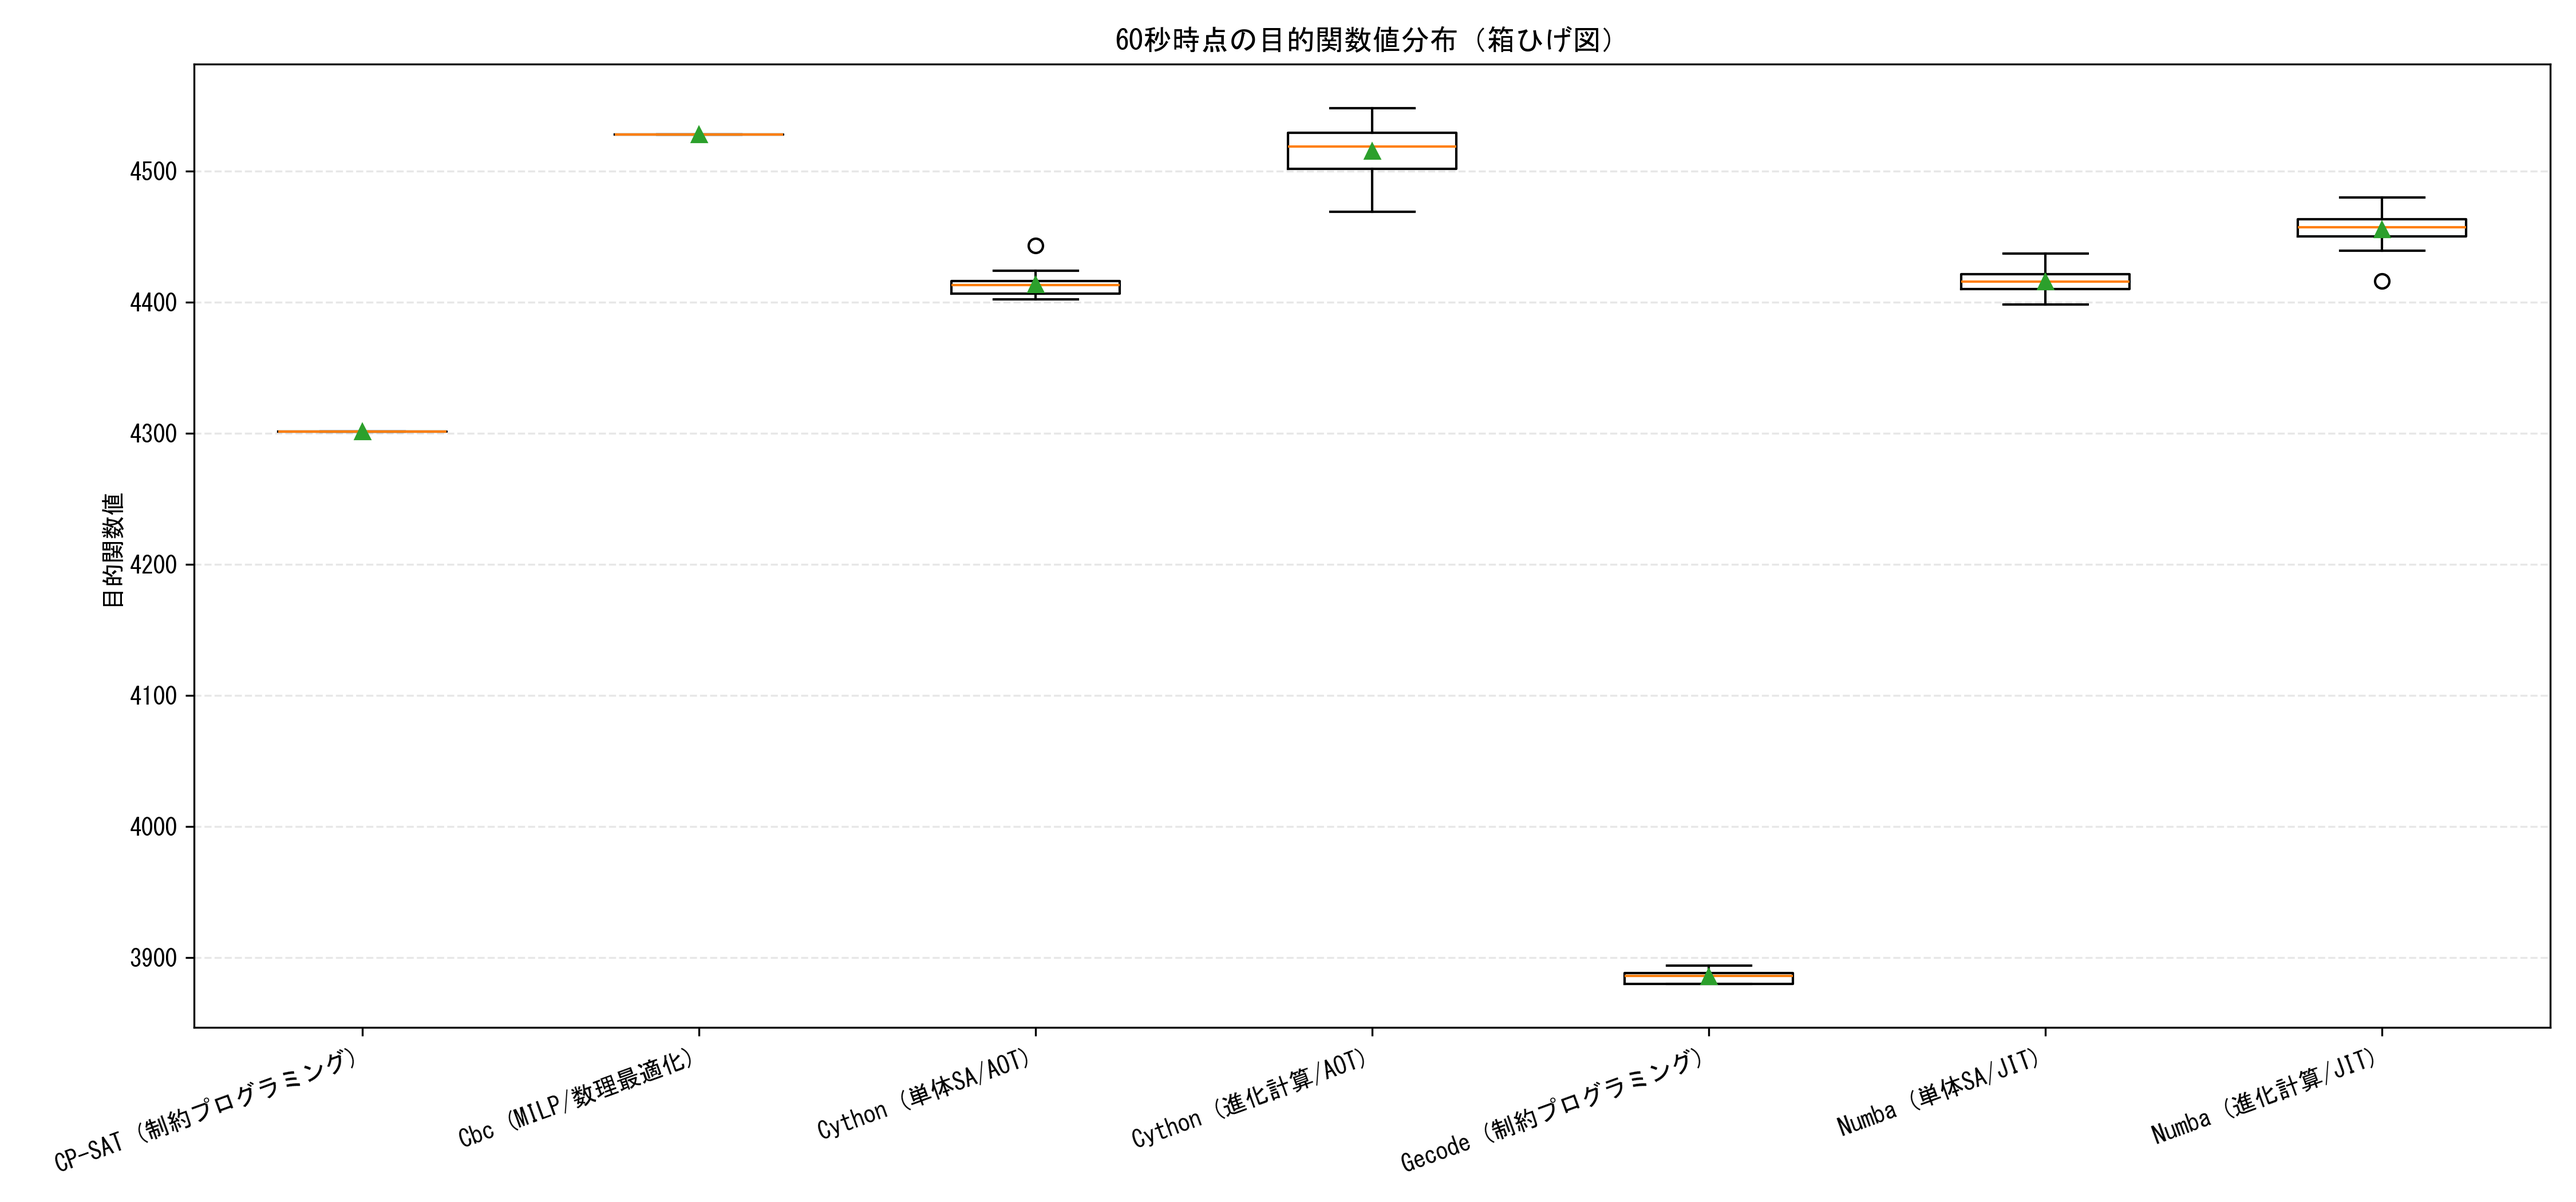
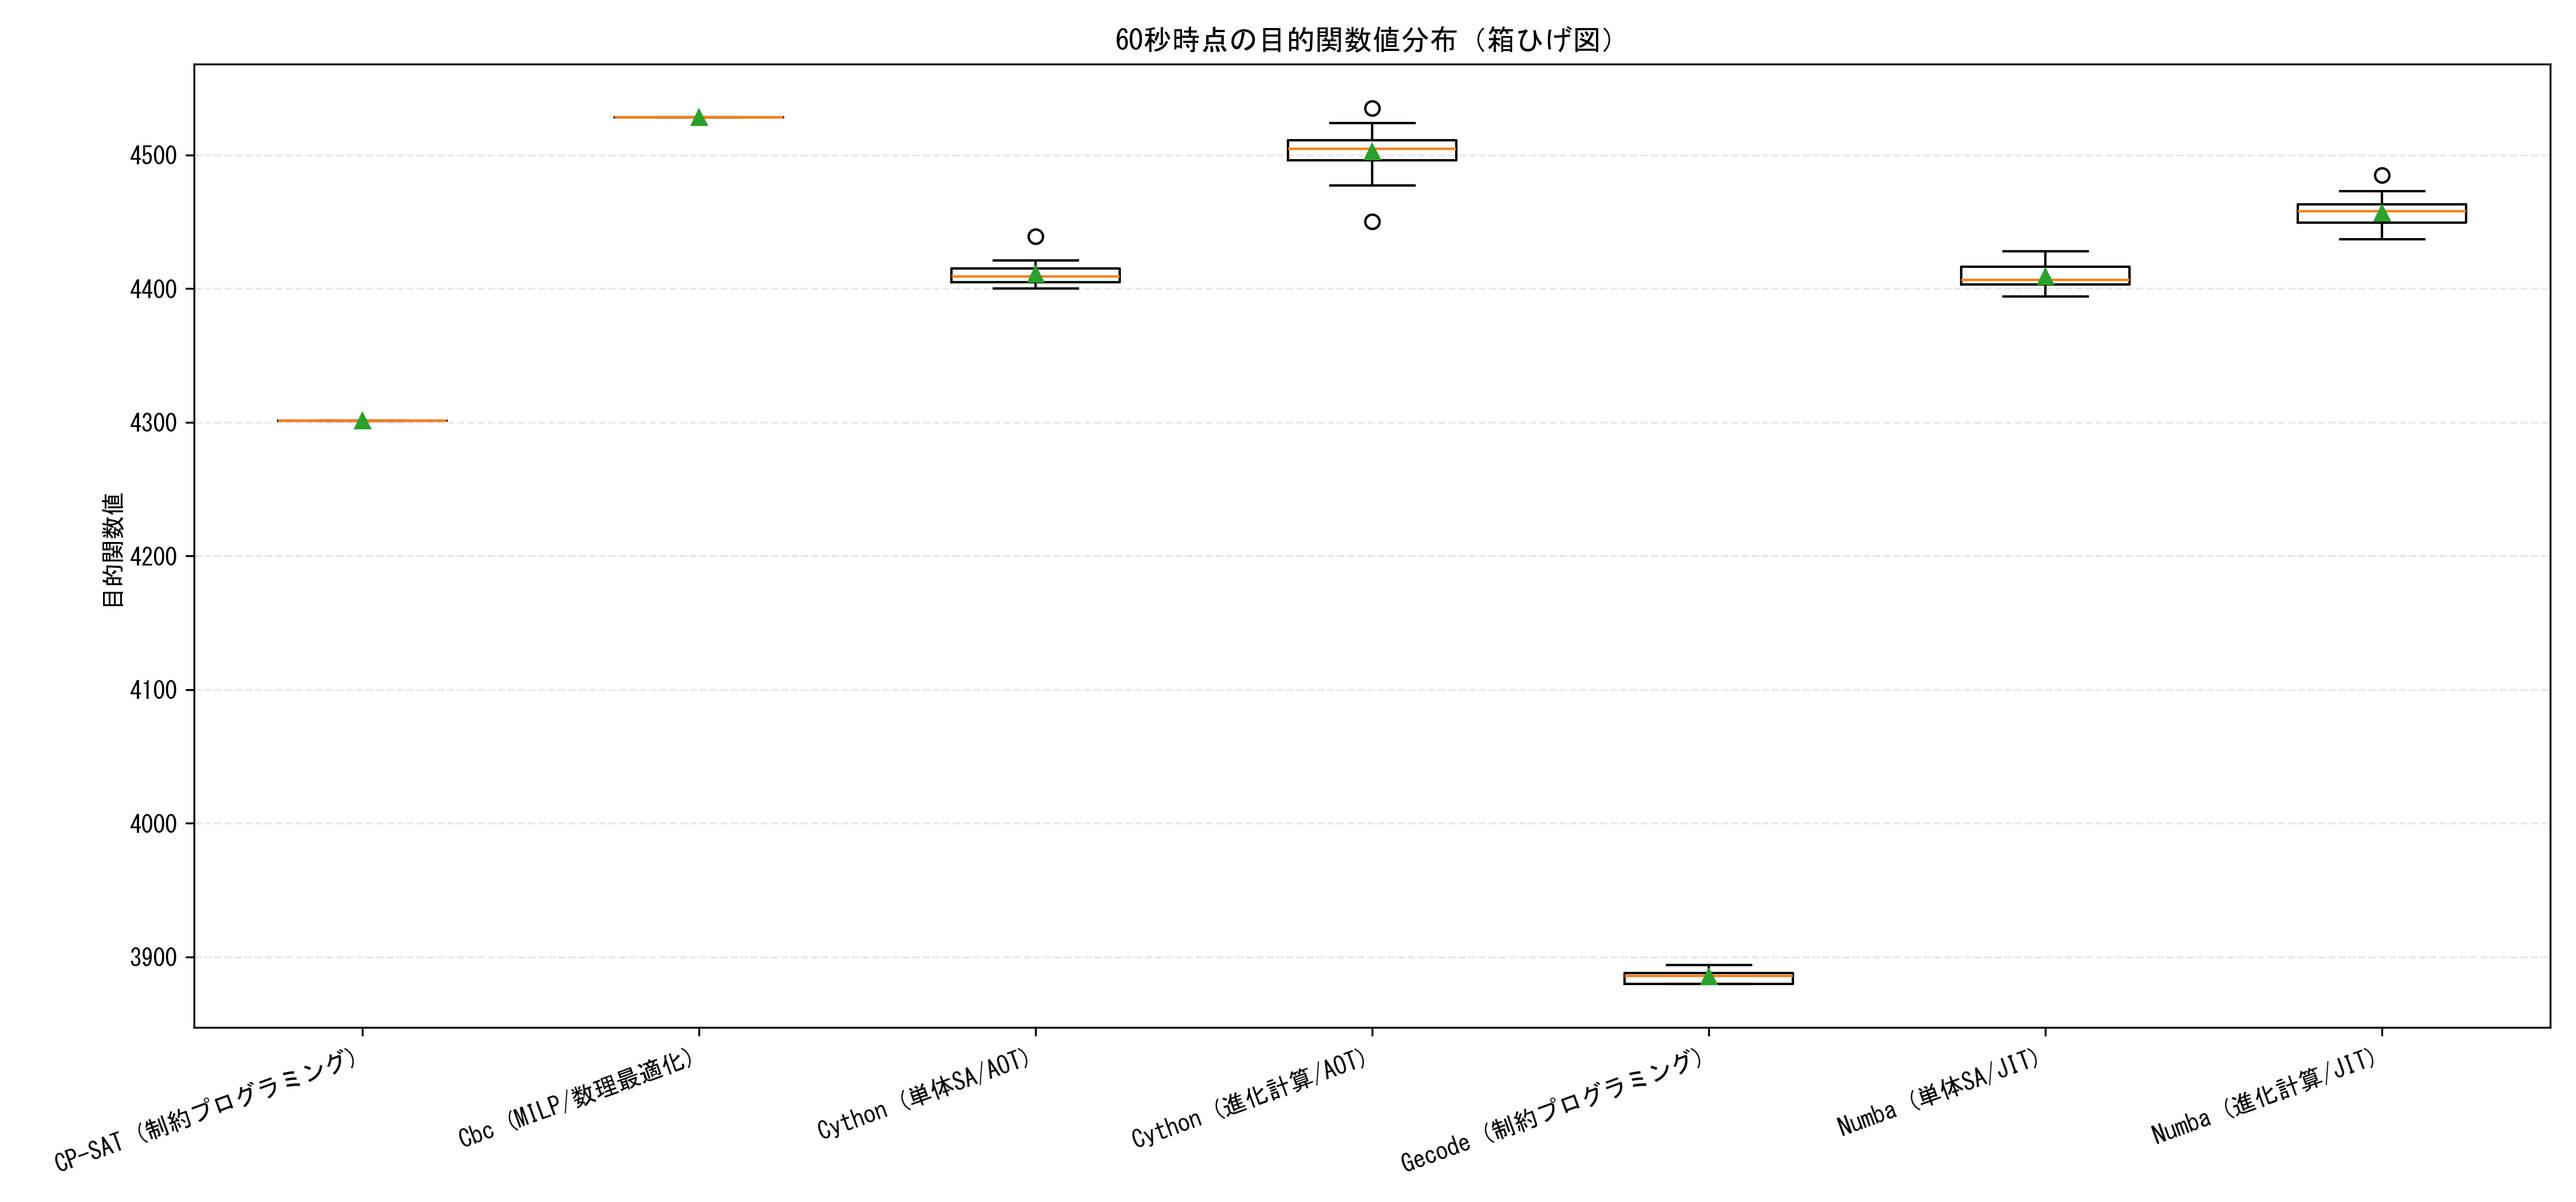
docs: Cython/Numba のエンジンコア改良に伴い最新のベンチマーク結果でレポートを更新 (#18) (#20)
- benchmark_report_jp.md: 最新の測定値で統計情報を再集計
- 平均スコア、標準偏差、試行数を最新データで更新
- グラフを再生成し視覚的な比較を最新化

diff --git a/results/reports/benchmark_report_jp.md b/results/reports/benchmark_report_jp.md
@@ -1,6 +1,6 @@
 # ソルバー性能比較レポート
 
-生成日時: 2026-03-16 11:03:41
+生成日時: 2026-03-17 01:44:39
 
 ## 時間予算別の統計結果
 
@@ -12,17 +12,17 @@
 
 | 手法・実装             |   目的関数値 平均 |   目的関数値 標準偏差 |   試行数 |   実行時間 平均 (秒) | 計算状態(最新)   |
 |:------------------|-----------:|-------------:|------:|--------------:|:-----------|
-| Cython (単体SA/AOT) |    4184.75 |        45.68 |    20 |        0.0512 | 近似解/満足解    |
-| Numba (単体SA/JIT)  |    4132.2  |        39.01 |    20 |        0.0529 | 近似解/満足解    |
+| Cython (単体SA/AOT) |     4214.1 |        20.88 |    20 |        0.0529 | 近似解/満足解    |
+| Numba (単体SA/JIT)  |     4212.3 |        39.02 |    20 |        0.065  | 近似解/満足解    |
 
 ### 実行時間上限 1 秒
 
 | 手法・実装              |   目的関数値 平均 |   目的関数値 標準偏差 |   試行数 |   実行時間 平均 (秒) | 計算状態(最新)   |
 |:-------------------|-----------:|-------------:|------:|--------------:|:-----------|
-| Numba (進化計算/JIT)   |    4303.4  |        23.96 |    20 |        1.0188 | 近似解/満足解    |
-| Numba (単体SA/JIT)   |    4295.4  |        23.21 |    20 |        1.0107 | 近似解/満足解    |
-| Cython (単体SA/AOT)  |    4290.35 |        22.23 |    20 |        1.012  | 近似解/満足解    |
-| Cython (進化計算/AOT)  |    4261.65 |        17.61 |    20 |        1.0158 | 近似解/満足解    |
+| Cython (単体SA/AOT)  |    4309.35 |        18.56 |    20 |        1.0123 | 近似解/満足解    |
+| Numba (進化計算/JIT)   |    4308.2  |        19.99 |    20 |        1.0257 | 近似解/満足解    |
+| Numba (単体SA/JIT)   |    4299.25 |        19.11 |    20 |        1.0128 | 近似解/満足解    |
+| Cython (進化計算/AOT)  |    4263.45 |        10.86 |    20 |        1.0148 | 近似解/満足解    |
 | Cbc (MILP/数理最適化)   |    4019    |         0    |    20 |        1.045  | 近似解/満足解    |
 | Gecode (制約プログラミング) |    3646.4  |       228.88 |    20 |        1.1085 | 近似解/満足解    |
 | CP-SAT (制約プログラミング) |       0    |         0    |    20 |        2.0855 | UNKNOWN    |
@@ -31,11 +31,11 @@
 
 | 手法・実装              |   目的関数値 平均 |   目的関数値 標準偏差 |   試行数 |   実行時間 平均 (秒) | 計算状態(最新)   |
 |:-------------------|-----------:|-------------:|------:|--------------:|:-----------|
-| Cython (進化計算/AOT)  |    4491.2  |        31.12 |    20 |       10.0155 | 近似解/満足解    |
 | Cbc (MILP/数理最適化)   |    4469    |         0    |    20 |       10.053  | 近似解/満足解    |
-| Numba (進化計算/JIT)   |    4415.6  |        21.27 |    20 |       10.0234 | 近似解/満足解    |
-| Cython (単体SA/AOT)  |    4383.45 |        10.26 |    20 |       10.0108 | 近似解/満足解    |
-| Numba (単体SA/JIT)   |    4381    |        13.38 |    20 |       10.0101 | 近似解/満足解    |
+| Cython (進化計算/AOT)  |    4421.35 |        26.17 |    20 |       10.0185 | 近似解/満足解    |
+| Numba (進化計算/JIT)   |    4416.95 |        20.1  |    20 |       10.0173 | 近似解/満足解    |
+| Cython (単体SA/AOT)  |    4384.4  |        15.67 |    20 |       10.0114 | 近似解/満足解    |
+| Numba (単体SA/JIT)   |    4383.1  |        12.97 |    20 |       10.0152 | 近似解/満足解    |
 | Gecode (制約プログラミング) |    3840.1  |         0.45 |    20 |       10.1061 | 近似解/満足解    |
 | CP-SAT (制約プログラミング) |    2129.45 |        50.55 |    20 |       11.0827 | 近似解/満足解    |
 
@@ -44,10 +44,10 @@
 | 手法・実装              |   目的関数値 平均 |   目的関数値 標準偏差 |   試行数 |   実行時間 平均 (秒) | 計算状態(最新)   |
 |:-------------------|-----------:|-------------:|------:|--------------:|:-----------|
 | Cbc (MILP/数理最適化)   |    4528    |         0    |    20 |       30.0684 | 近似解/満足解    |
-| Cython (進化計算/AOT)  |    4515.2  |        29.69 |    20 |       30.0207 | 近似解/満足解    |
-| Numba (進化計算/JIT)   |    4456.4  |        12.26 |    20 |       30.0195 | 近似解/満足解    |
-| Cython (単体SA/AOT)  |    4407.2  |         9.12 |    20 |       30.0135 | 近似解/満足解    |
-| Numba (単体SA/JIT)   |    4403.35 |         7.96 |    20 |       30.017  | 近似解/満足解    |
+| Cython (進化計算/AOT)  |    4469.75 |        24.67 |    20 |       30.0148 | 近似解/満足解    |
+| Numba (進化計算/JIT)   |    4434.55 |        15.85 |    20 |       30.0264 | 近似解/満足解    |
+| Numba (単体SA/JIT)   |    4397.2  |         9.03 |    20 |       30.011  | 近似解/満足解    |
+| Cython (単体SA/AOT)  |    4396.65 |         8.16 |    20 |       30.013  | 近似解/満足解    |
 | CP-SAT (制約プログラミング) |    4232.1  |         8.44 |    20 |       31.1016 | 近似解/満足解    |
 | Gecode (制約プログラミング) |    3868    |         0    |    20 |       30.1157 | 近似解/満足解    |
 
@@ -56,10 +56,10 @@
 | 手法・実装              |   目的関数値 平均 |   目的関数値 標準偏差 |   試行数 |   実行時間 平均 (秒) | 計算状態(最新)   |
 |:-------------------|-----------:|-------------:|------:|--------------:|:-----------|
 | Cbc (MILP/数理最適化)   |    4528    |         0    |    20 |       60.0696 | 近似解/満足解    |
-| Cython (進化計算/AOT)  |    4515.05 |        20.97 |    20 |       60.0201 | 近似解/満足解    |
-| Numba (進化計算/JIT)   |    4455.35 |        13.81 |    20 |       60.0165 | 近似解/満足解    |
-| Numba (単体SA/JIT)   |    4415.45 |        10.29 |    20 |       60.0159 | 近似解/満足解    |
-| Cython (単体SA/AOT)  |    4413.3  |         9.22 |    20 |       60.0092 | 近似解/満足解    |
+| Cython (進化計算/AOT)  |    4502.4  |        18.3  |    20 |       60.0165 | 近似解/満足解    |
+| Numba (進化計算/JIT)   |    4456.65 |        11.9  |    20 |       60.0202 | 近似解/満足解    |
+| Cython (単体SA/AOT)  |    4410.8  |         8.98 |    20 |       60.0103 | 近似解/満足解    |
+| Numba (単体SA/JIT)   |    4408.9  |         9.3  |    20 |       60.0116 | 近似解/満足解    |
 | CP-SAT (制約プログラミング) |    4301    |         0    |    20 |       61.0885 | 近似解/満足解    |
 | Gecode (制約プログラミング) |    3885.6  |         5.64 |    20 |       60.1159 | 近似解/満足解    |
 
